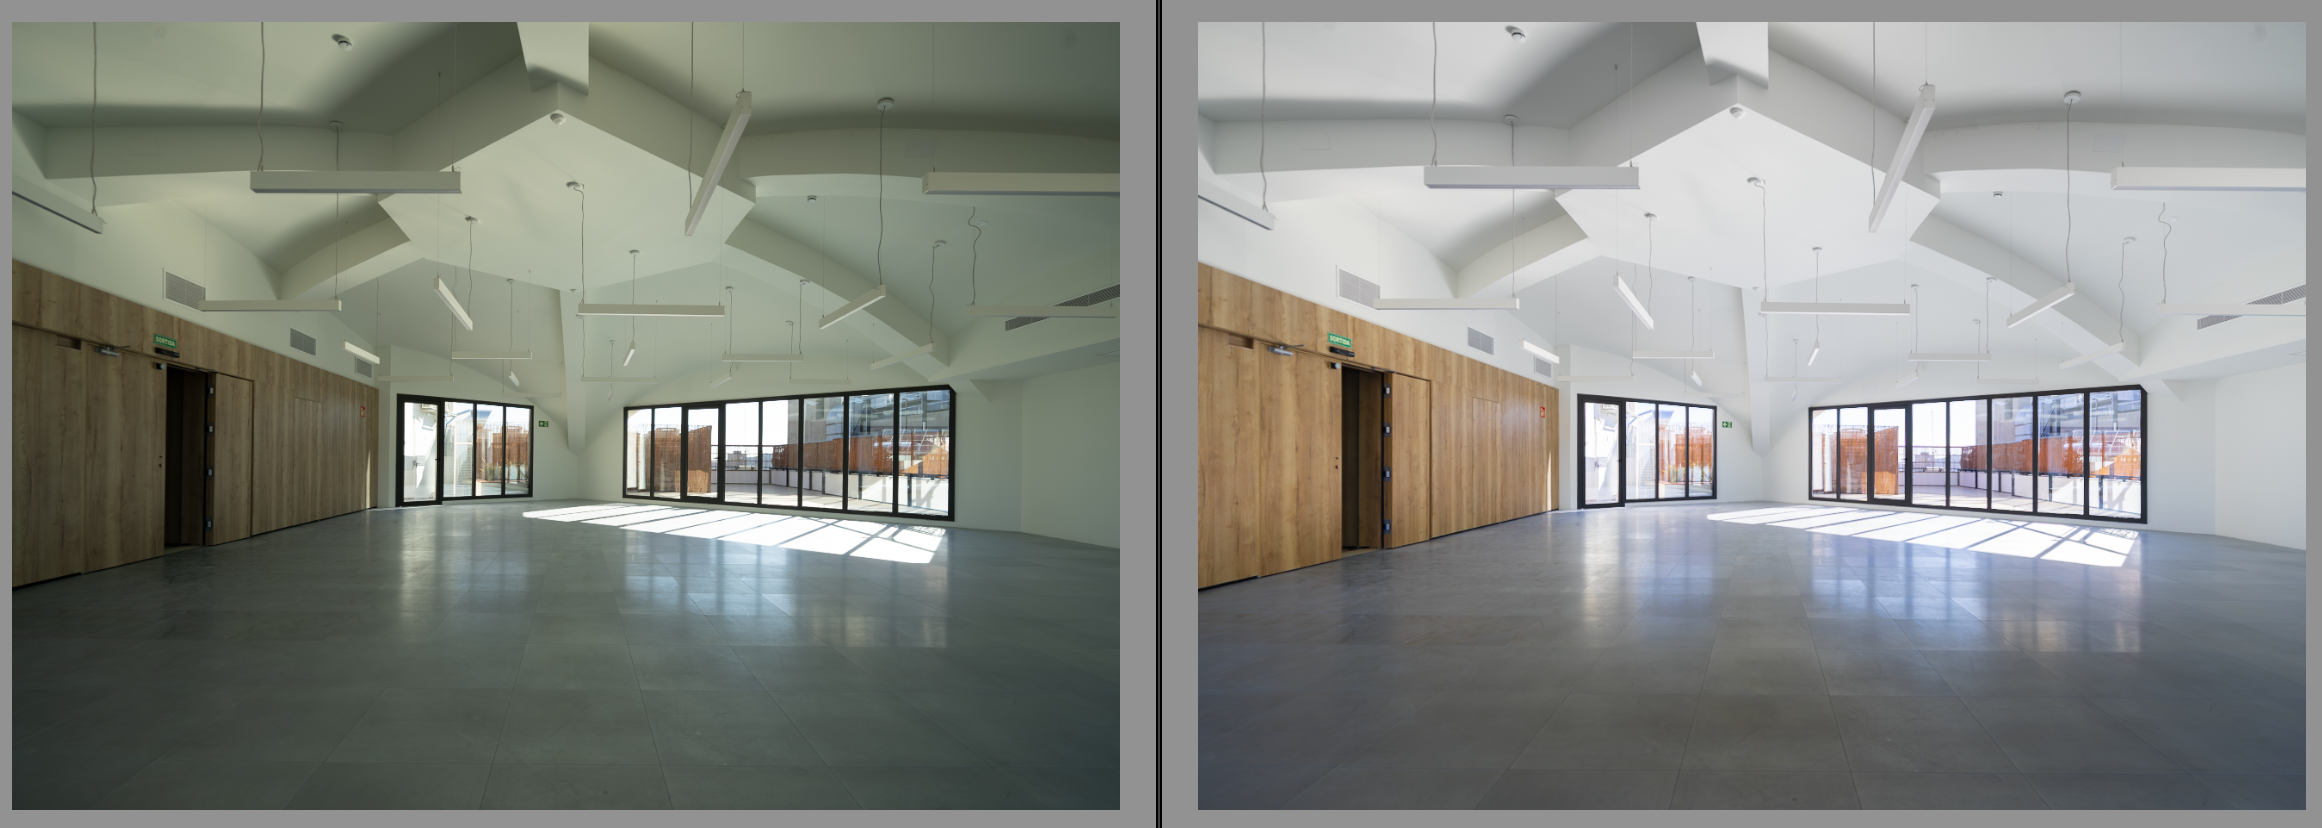
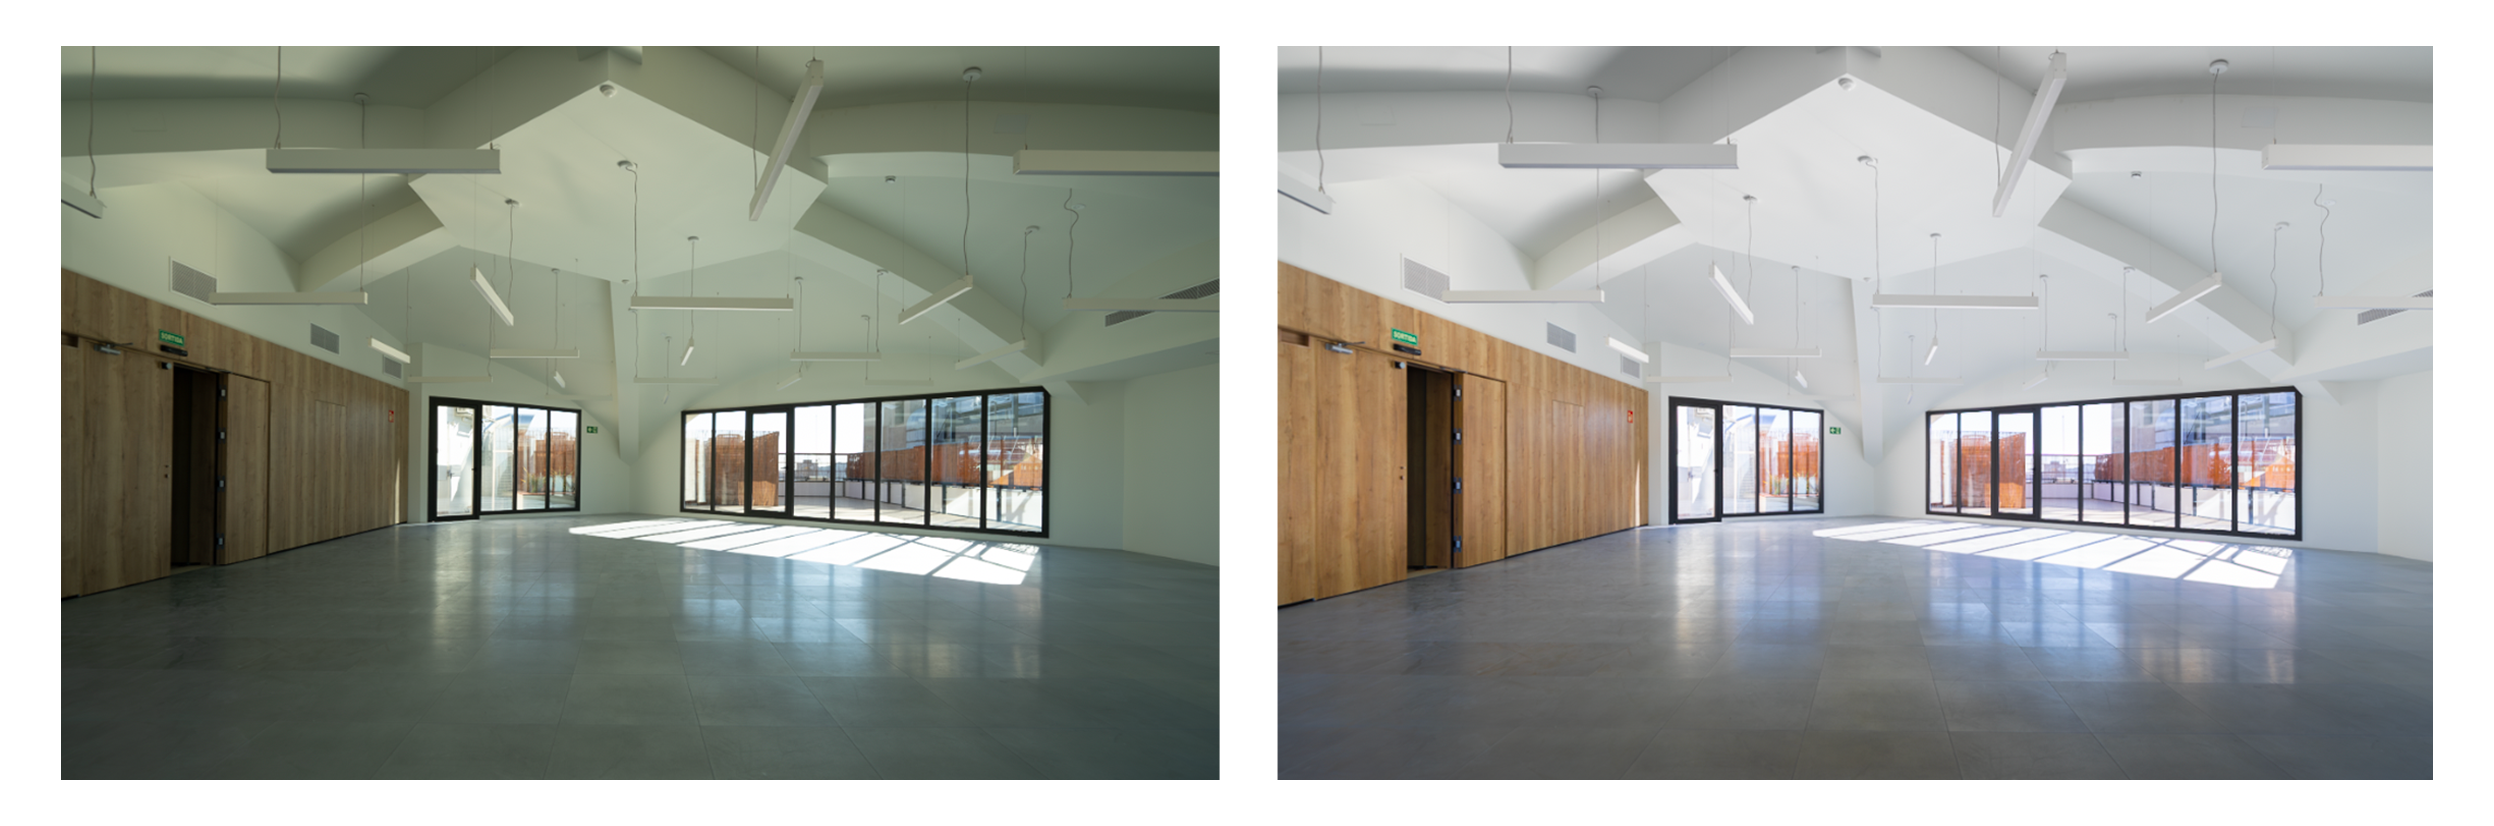
Varis

diff --git a/styles.css b/styles.css
@@ -102,11 +102,19 @@ nav {
 .works {
   display: flex;
   flex-direction: column;
-  gap: 100px;
+  gap: 2rem;
   padding: 0 2rem 6rem;
   max-width: 1100px;
   margin: 0 auto;
   align-items: center;
+}
+
+.works > .work-section-title {
+  margin-bottom: 0;
+}
+
+.works > .work-section-title + .work-item {
+  margin-top: 1rem;
 }
 
 .works img {

diff --git a/index.html b/index.html
@@ -32,8 +32,10 @@
   <div class="divider"></div>
   <div class="works">
     <!-- Work item with image carousel controls -->
+    <h1 class="hero-name work-section-title" style="font-size: 1.7rem; margin: 0 0 0.8rem;">EDICIÓN DE FOTOGRAFÍA</h1>
+
     <div class="work-item" onclick="showPage('fotos')">
-      <div class="carousel" id="carousel-1" data-images="media/comparacion%201.png,media/collage%20forus.png,media/collage%20pp.png">
+      <div class="carousel" id="carousel-1" data-images="media/comparacion%201.png,media/comparacion%202.png,media/comparacion%203.png,media/comparacion%207.png,media/comparacion%209.png">
         <img src="media/comparacion%201.png" alt="" class="carousel-img">
       </div>
       <button class="carousel-btn carousel-btn--left" aria-label="Anterior">‹</button>
@@ -41,9 +43,11 @@
       <div class="work-label"><span class="work-label-text">Ver más</span></div>
     </div>
 
-    <img  src="GIF-4.gif" alt="">
+    <img src="GIF-5.gif" alt="" style="width: 100px; height: auto; display: block; margin: 0 auto;">
     
     <div class="work-item" onclick="showPage('video')">
+      <h1 class="hero-name work-section-title" style="font-size: 1.7rem; margin: 0 0 0.8rem;">VÍDEO</h1>
+
       <svg class="work-svg" viewBox="0 0 700 525" preserveAspectRatio="xMidYMid slice" xmlns="http://www.w3.org/2000/svg">
         <rect width="700" height="525" fill="#1c1c1a"/>
         <rect x="0" y="0" width="700" height="262" fill="#222220" opacity="0.8"/>